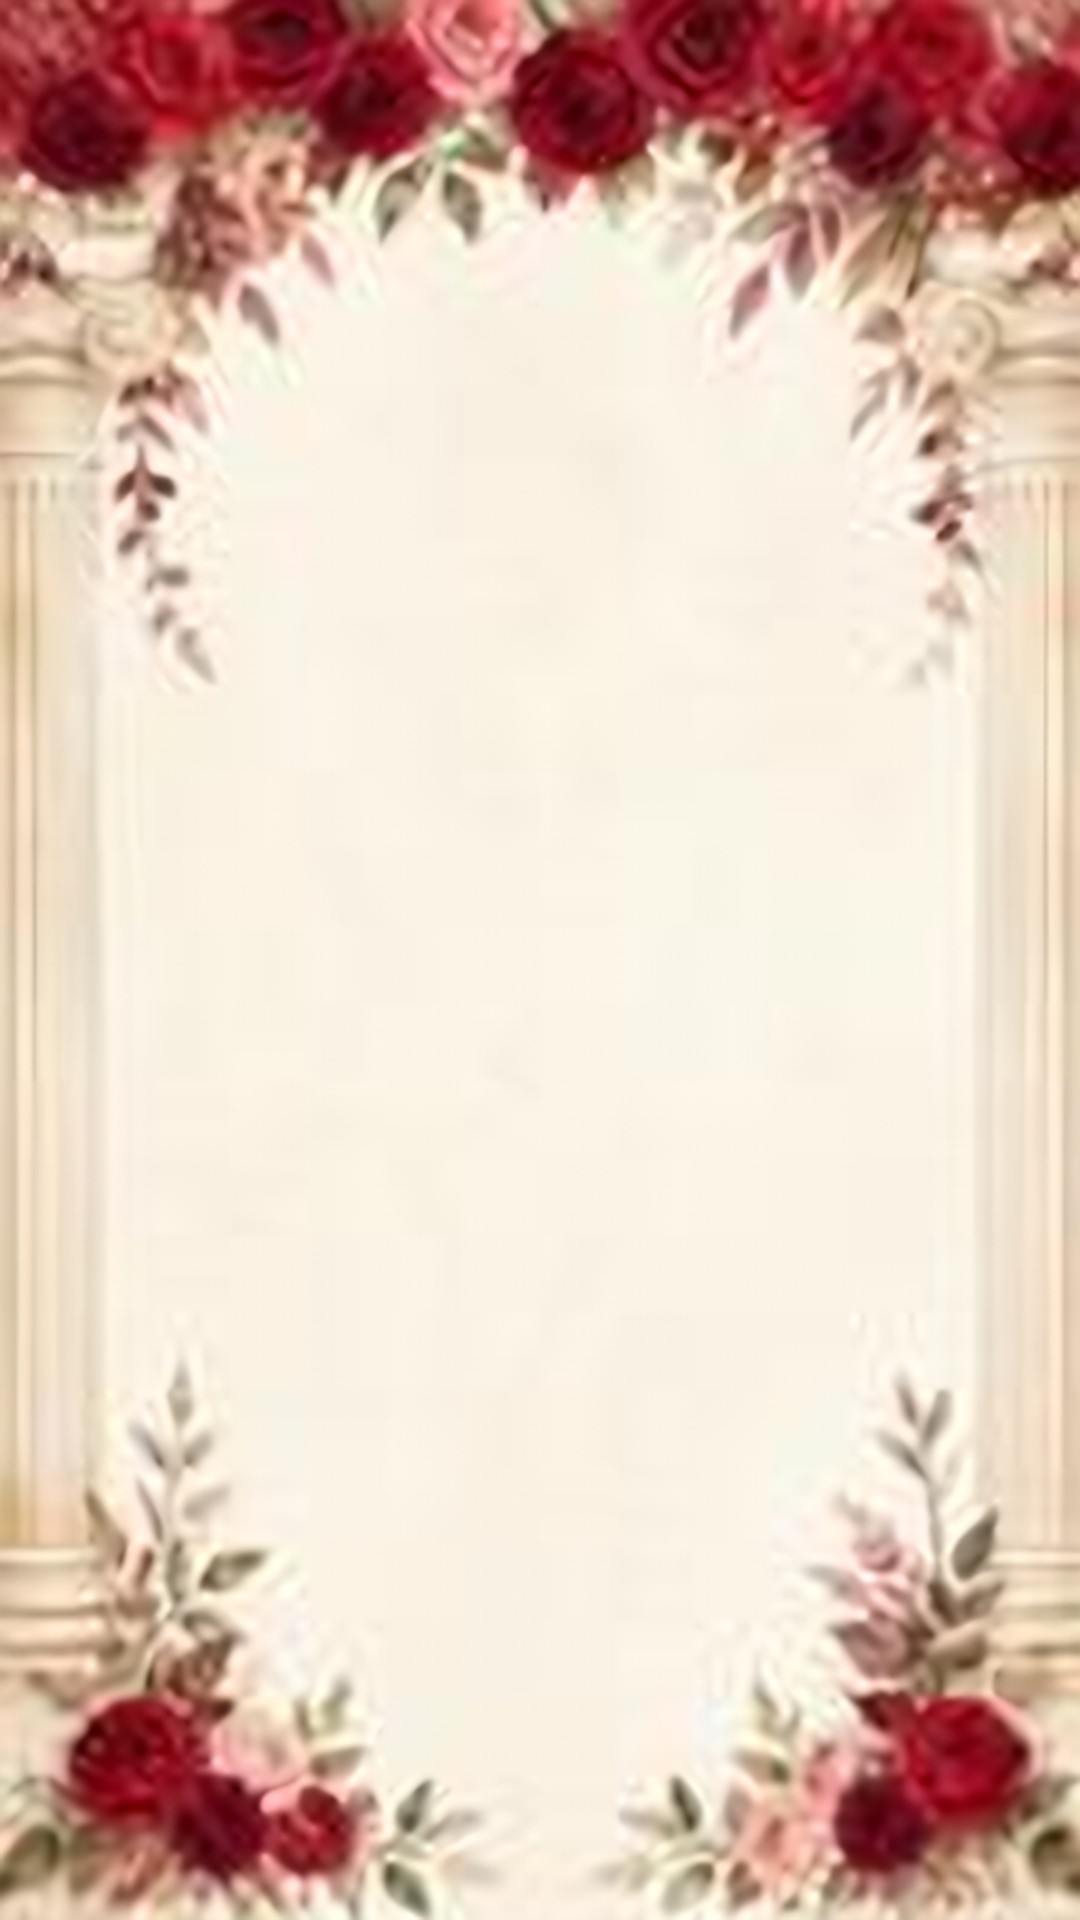
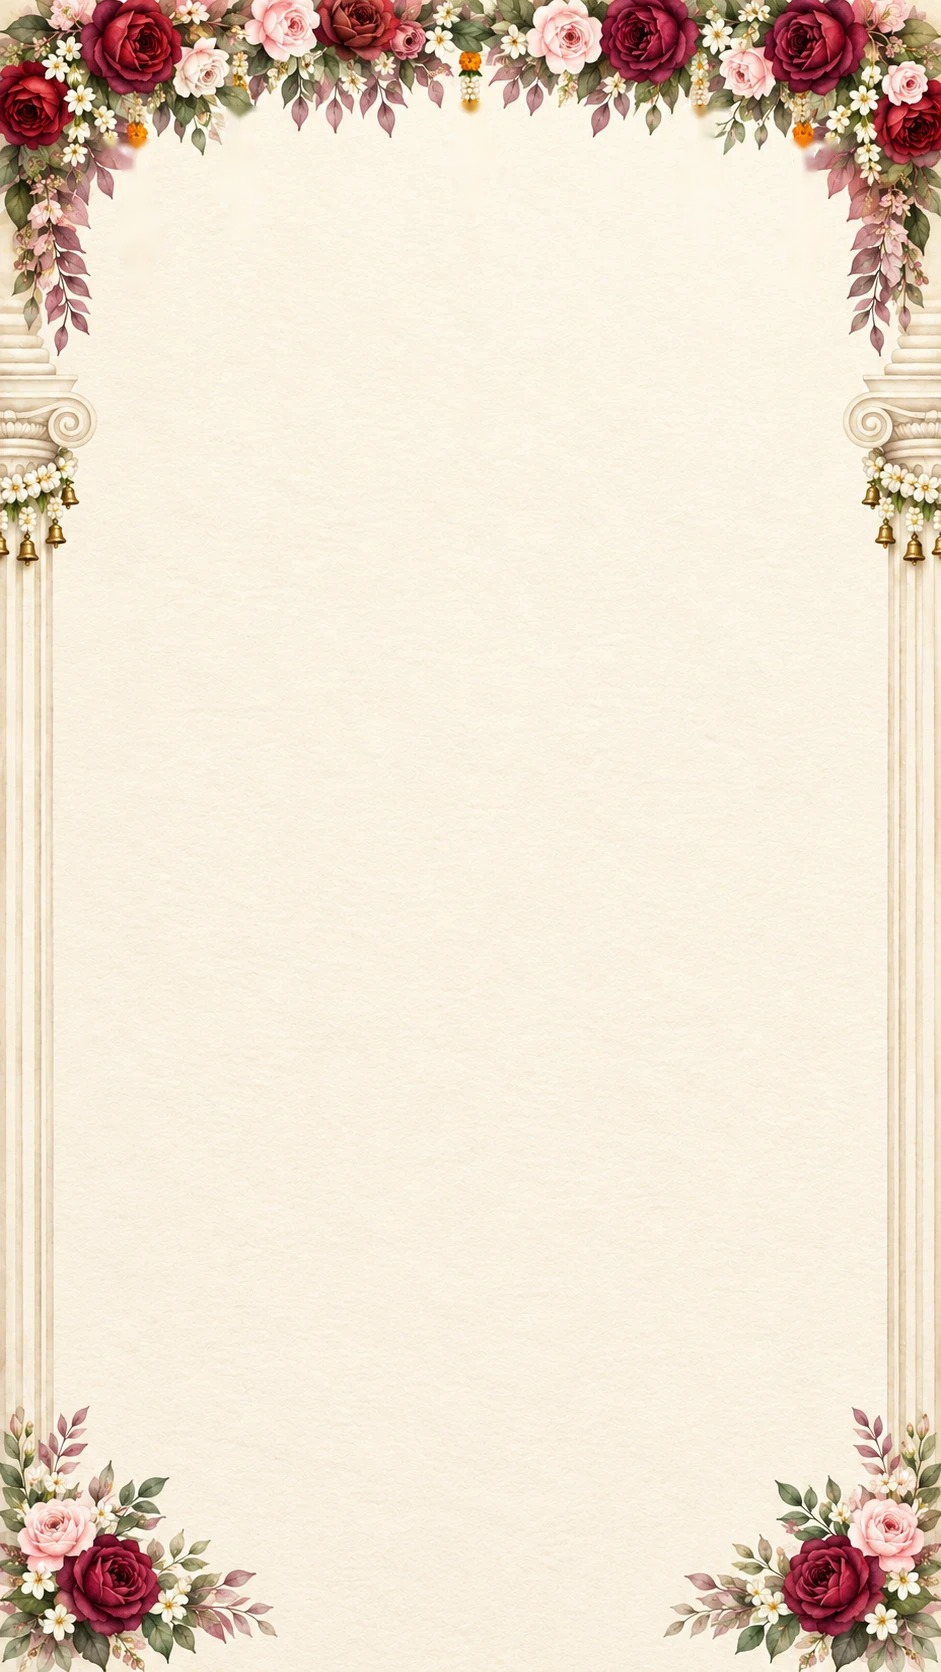
Harsh & Stuti (preview): page 1 rose, bell and pillar background with swinging bells
Bells are lifted out of the painted background (inpainted) and animated
as separate sprites. Not deployed yet.

Claude-Session: https://claude.ai/code/session_014jEFCskwwNy5yMcLBTXkCs

diff --git a/harsh-stuti/index.html b/harsh-stuti/index.html
@@ -90,7 +90,14 @@
 
       <!-- ============ Scene 2 : monogram ============ -->
       <section class="scene scene--monogram" id="scene2">
-        <img class="p1-bg" id="p1Bg" src="assets/art/roses-bg.jpg" alt="" />
+        <div class="p1-bg" id="p1Bg" aria-hidden="true">
+          <img class="p1-bg__paper" src="assets/art/roses-bg.jpg" alt="" />
+          <img class="bell bell1" src="assets/art/bells/bell1.png" alt="" style="left:10.946%;top:8.373%;width:7.226%" />
+          <img class="bell bell2" src="assets/art/bells/bell2.png" alt="" style="left:22.104%;top:6.459%;width:6.801%" />
+          <img class="bell bell3" src="assets/art/bells/bell3.png" alt="" style="left:46.546%;top:6.220%;width:6.801%" />
+          <img class="bell bell4" src="assets/art/bells/bell4.png" alt="" style="left:70.988%;top:6.459%;width:6.801%" />
+          <img class="bell bell5" src="assets/art/bells/bell5.png" alt="" style="left:81.615%;top:8.373%;width:7.226%" />
+        </div>
         <div class="monogram" id="monogram">
           <div class="logo" id="logoMain">
           <svg class="logo__mark" viewBox="0 0 380 300" aria-label="H and S monogram">

diff --git a/harsh-stuti/styles.css b/harsh-stuti/styles.css
@@ -686,3 +686,15 @@ body::before {
 .scene--calendar .month-block { margin-top: -30px; }
 .scene--calendar .calendar { margin-top: -50px; }
 .scene--calendar .wedding-of { margin-top: -96px; }
+
+/* page 1 artwork: background + swinging bells, kept aligned at any screen height */
+.p1-bg { left: 50%; right: auto; top: 0; bottom: auto; width: auto; height: 100%; aspect-ratio: 941 / 1672; transform: translateX(-50%); }
+.p1-bg__paper { position: absolute; inset: 0; width: 100%; height: 100%; display: block; }
+.bell { position: absolute; height: auto; transform-origin: 50% 0; animation: swing 3.2s ease-in-out infinite alternate; }
+.bell1 { animation-duration: 3.4s; animation-delay: -.6s; }
+.bell2 { animation-duration: 2.9s; animation-delay: -1.4s; }
+.bell3 { animation-duration: 3.1s; animation-delay: -.2s; }
+.bell4 { animation-duration: 2.8s; animation-delay: -1.9s; }
+.bell5 { animation-duration: 3.5s; animation-delay: -1.1s; }
+@keyframes swing { from { transform: rotate(-4deg); } to { transform: rotate(4deg); } }
+@media (prefers-reduced-motion: reduce) { .bell { animation: none; } }
